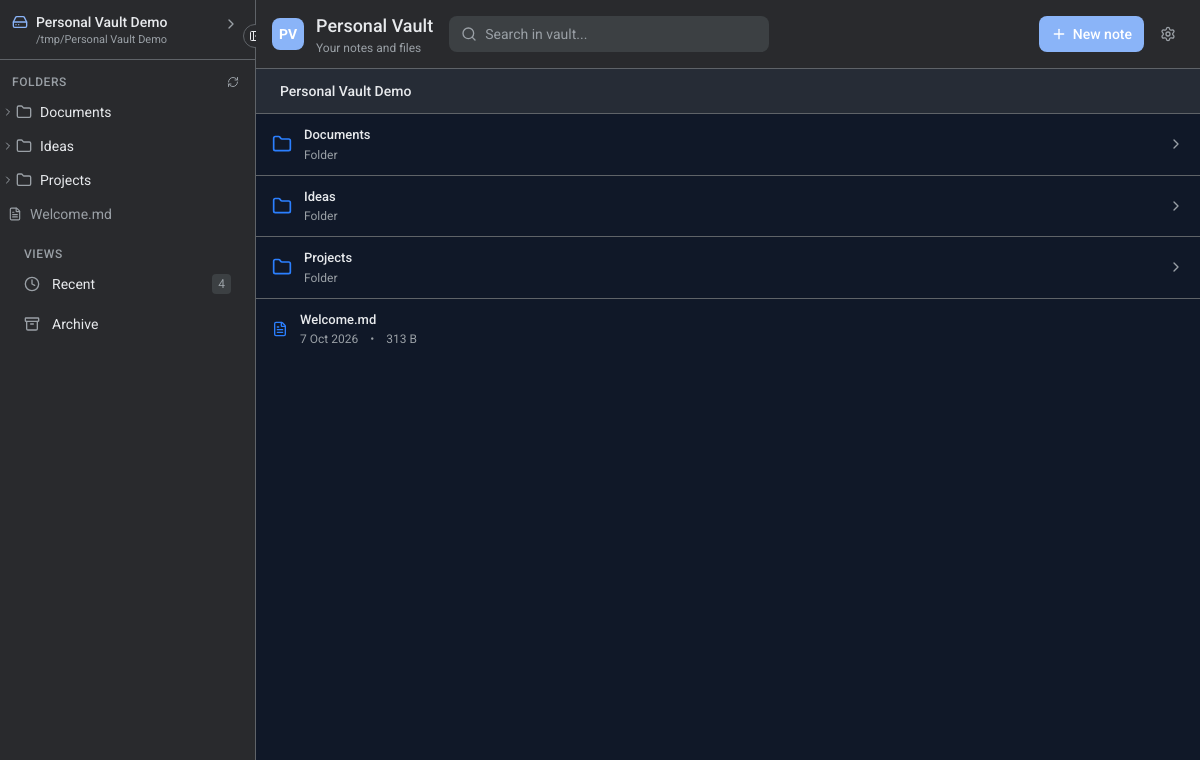
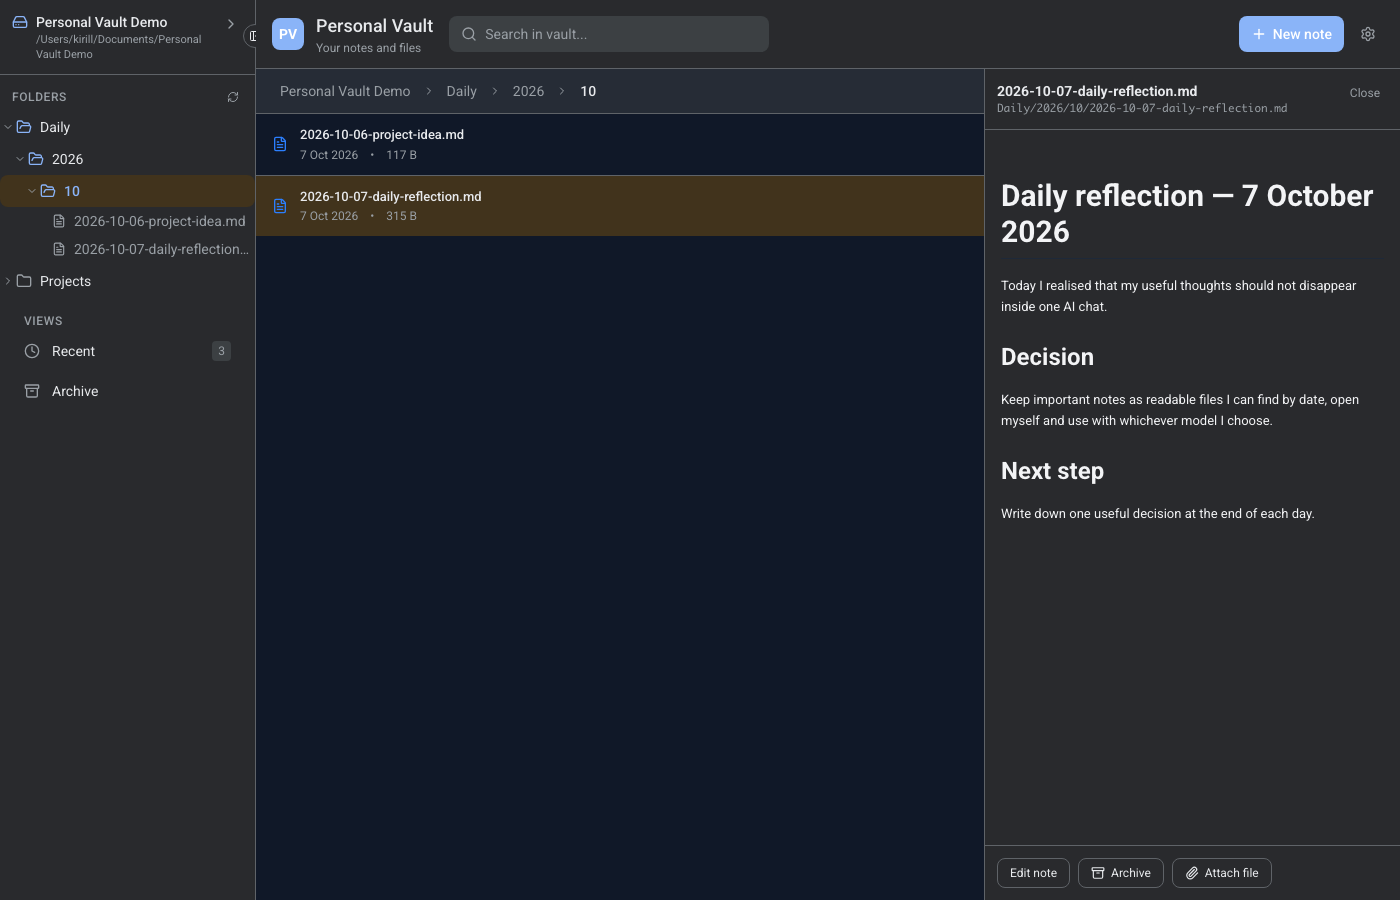
docs: clarify cross-platform roadmap and mobile access

diff --git a/README.md b/README.md
@@ -2,17 +2,17 @@
 
 **Keep your AI memory in a folder you own — not inside one model or app.**
 
-Personal Vault is a simple Mac app for keeping notes, decisions, project context and attachments as ordinary readable files. You can browse them in the app, open them in Finder or any Markdown editor, and choose when an AI client may use them.
+Personal Vault is a provider-neutral memory system built around ordinary readable files and an optional MCP server. The same design can run on macOS, Windows, Linux and an owner-controlled server. Desktop apps and remote/mobile connectors are clients of the same Vault — they are not separate storage systems.
 
-[**Download Personal Vault for Mac — Apple Silicon (.dmg)**](https://github.com/personal-ai-systems/personal-vault-ui/releases/download/v0.1.0-preview.2/Personal.Vault-0.1.0-arm64.dmg)
+[**Download the current preview for Mac — Apple Silicon (.dmg)**](https://github.com/personal-ai-systems/personal-vault-ui/releases/download/v0.1.0-preview.2/Personal.Vault-0.1.0-arm64.dmg)
 
 [View release notes or download the ZIP](https://github.com/personal-ai-systems/personal-vault-ui/releases/tag/v0.1.0-preview.2) · [Report a problem](https://github.com/personal-ai-systems/personal-vault-ui/issues)
 
-> **Early preview:** this build is for Macs with an Apple M-series chip. It is unsigned and not notarized, so macOS requires a one-time manual approval. Start with a new empty test folder or copies of files you can afford to lose. Intel Macs, Windows, cloud sync and automatic updates are not supported yet.
+> **Current download, not product boundary:** the first packaged preview is for Macs with an Apple M-series chip. Windows, Linux, Intel Mac and secure mobile access are part of the cross-platform direction below, but their installers/connectors are not released yet.
 
 ![Personal Vault showing a readable folder tree and Markdown files](docs/images/personal-vault-browser.png)
 
-<sub>Current development interface shown with synthetic demo files. The downloadable preview may differ slightly.</sub>
+<sub>Current development interface with synthetic demo data. The selected thought is a normal file at `Daily/2026/10/2026-10-07-daily-reflection.md`; both the filesystem location and the saved date remain visible. The downloadable preview may differ slightly.</sub>
 
 ## Why use it?
 
@@ -22,25 +22,46 @@ Personal Vault keeps that context outside the provider:
 
 - **Your files stay yours.** Notes are Markdown files and attachments in a folder you choose.
 - **You can change AI models.** The same folder can support OpenAI GPT or Codex, Anthropic Claude, Google Gemini, DeepSeek, Kimi, or local models such as Llama, Qwen and Mistral through a suitable client.
-- **It works without AI.** Browse, search and edit the files in the Mac app, Finder, Obsidian, VS Code or another Markdown editor.
+- **It works without AI.** Browse, search and edit the files in a desktop app, Finder, Windows File Explorer, Obsidian, VS Code or another Markdown editor.
 - **AI access is optional.** Compatible clients can use the included local MCP interface to list, read, search, create and update files after you grant access.
 - **There is no hidden canonical database.** If the app disappears, the folder is still readable.
 
 ```mermaid
 flowchart LR
     V["Your Personal Vault folder<br/>Markdown + attachments"]
-    A["Personal Vault Mac app"]
-    E["Finder, Obsidian or another editor"]
-    C["Compatible AI client"]
+    S["Personal Vault MCP server"]
+    D["Desktop app<br/>macOS now; Windows and Linux planned"]
+    E["Finder, File Explorer,<br/>Obsidian or another editor"]
+    R["Secure remote access<br/>coming soon"]
+    C["Mobile or desktop AI client"]
     M["Model you choose"]
 
-    A <--> V
+    D <--> S
+    S <--> V
     E <--> V
-    V <--> |"optional local MCP access"| C
+    S <--> R
+    R <--> C
     C <--> M
 ```
 
-## Install on a Mac
+## Platform support
+
+Personal Vault is not intended to be tied to macOS. The current implementation is being released in small, testable steps:
+
+| Platform or access path | Status | How it uses the Vault |
+| --- | --- | --- |
+| macOS Apple Silicon desktop app | **Preview available now** | Bundles the UI and local MCP server; files stay in the selected folder. |
+| Core MCP server on macOS, Windows and Linux | **Source available; cross-platform CI being added** | Runs beside a readable folder using Node.js. Packaged service installers are still to be implemented. |
+| Windows desktop app | **Coming soon** | Planned Electron installer using the same UI, MCP tools and ordinary files. |
+| Linux desktop app | **Coming soon** | Planned package using the same UI, MCP tools and ordinary files. |
+| Intel Mac desktop app | **Coming soon** | Requires a separate signed build and installation testing. |
+| ChatGPT and other remote MCP clients | **Coming soon** | Connect through an authenticated HTTPS MCP endpoint or secure tunnel to the owner-controlled Vault host. |
+| iPhone, iPad and Android | **Coming soon through compatible clients** | The phone acts as a client; it does not need direct access to the desktop filesystem. |
+| iCloud Drive and Google Drive backup | **Planned** | Backup/restore for the readable folder, not a replacement hidden database. |
+
+`localhost:8788` is only for software running on the same computer. A phone cannot reach that address on the Mac. Remote/mobile access must add authentication, HTTPS and an owner-controlled connection method; users should never expose the local port directly to the internet.
+
+## Try the current Mac preview
 
 ### 1. Check your Mac
 
@@ -84,7 +105,7 @@ That folder is your Vault. The app does not upload it, convert it into a databas
 
 After the app opens:
 
-1. Create a small Markdown note, such as `ideas.md`.
+1. Create a small Markdown note, such as `2026-10-07-my-thought.md`.
 2. Add a few lines of text and save it.
 3. Search for a word from the note.
 4. Open the same file directly from the selected folder in Finder or another Markdown editor.
@@ -92,11 +113,13 @@ After the app opens:
 
 The important result is simple: the note remains a normal file in the folder you selected.
 
+Dates are not hidden metadata. If you want a chronological journal, keep the date in the file name and folder path so it remains visible in Personal Vault, Finder, Windows File Explorer and any Markdown editor.
+
 ## Use it with or without AI
 
 ### Without AI
 
-Use the Mac app as a file browser and Markdown editor, or open the same folder with tools you already use. No account, connector or model is required.
+Use the current Mac app, a future Windows/Linux app, or open the same folder with tools you already use. No AI account, connector or model is required.
 
 ### Give selected files to an AI
 
@@ -104,9 +127,20 @@ For an occasional task, attach selected Markdown files to any AI client that acc
 
 ### Connect a compatible AI client
 
-The app includes a local MCP service for controlled file operations. A compatible client can list, read, search, create, update, attach, archive and restore files in the selected Vault.
+The current app includes a local MCP service for controlled file operations. The same server can back future Windows/Linux apps and a secured remote connection. A compatible client can list, read, search, create, update, attach, archive and restore files in the selected Vault.
 
 Personal Vault does **not** include model accounts or subscriptions, and it does not automatically connect every provider. Each client must be configured to read the relevant files or connect to the Vault. Switching models preserves the stored memory; it does not silently send that memory to the new provider.
+
+### Use it from a phone
+
+The intended mobile flow is:
+
+1. Personal Vault remains on a computer or owner-controlled server with access to the readable folder.
+2. The MCP service is made available through authenticated HTTPS or a secure tunnel.
+3. ChatGPT or another compatible mobile client connects to that MCP service.
+4. The user can inspect and approve what the AI reads or changes.
+
+This remote/mobile packaging is **to be implemented**. The current local server already speaks MCP over Streamable HTTP, but the public product does not yet ship the secure remote setup or claim a verified ChatGPT mobile connection.
 
 ## What is stored?
 
@@ -114,7 +148,9 @@ There is no required internal layout. A Vault can be as simple as:
 
 ```text
 Personal Vault/
-├── ideas.md
+├── Daily/
+│   └── 2026/10/
+│       └── 2026-10-07-daily-reflection.md
 ├── projects/
 │   └── home-renovation.md
 ├── documents/
@@ -127,10 +163,10 @@ You can organise the folder in a way that makes sense to you. Attachments stay a
 ## Privacy and preview limitations
 
 - Files remain in the folder you select unless you move, share or back them up yourself.
-- The local service listens on the Mac's loopback interface rather than exposing the Vault to the network by default.
+- The local service listens on the host computer's loopback interface rather than exposing the Vault to the network by default.
 - The preview has no built-in cloud sync or backup. Keep your own backup.
 - The current build is unsigned and not notarized.
-- Automatic updates, Intel Mac and Windows builds are not available yet.
+- Automatic updates and Windows, Linux and Intel Mac installers are not available yet.
 - This is an early test release, not a promise that every workflow is production-ready.
 
 Please do not include private notes, credentials or personal information in public GitHub issues or screenshots.
@@ -141,11 +177,11 @@ Please do not include private notes, credentials or personal information in publ
 - [Read the current release notes](https://github.com/personal-ai-systems/personal-vault-ui/releases/tag/v0.1.0-preview.2)
 - [Read the short usage guide](docs/using-personal-vault.md)
 
-When reporting a problem, include what you tried, what happened, and your macOS version. Remove personal information from screenshots and sample files.
+When reporting a problem, include what you tried, what happened, and your operating-system version. Remove personal information from screenshots and sample files.
 
 ## For developers
 
-This repository contains the readable-file engine and local MCP interface. The companion [`personal-vault-ui`](https://github.com/personal-ai-systems/personal-vault-ui) repository contains the Mac interface and packaging. The downloadable app bundles both; end users do not need to clone either repository.
+This repository contains the portable readable-file engine and MCP interface. The companion [`personal-vault-ui`](https://github.com/personal-ai-systems/personal-vault-ui) repository contains the Electron interface and the first macOS packaging. Future Windows and Linux packages should bundle the same engine instead of introducing platform-specific storage.
 
 ### Run the MCP service locally
 
